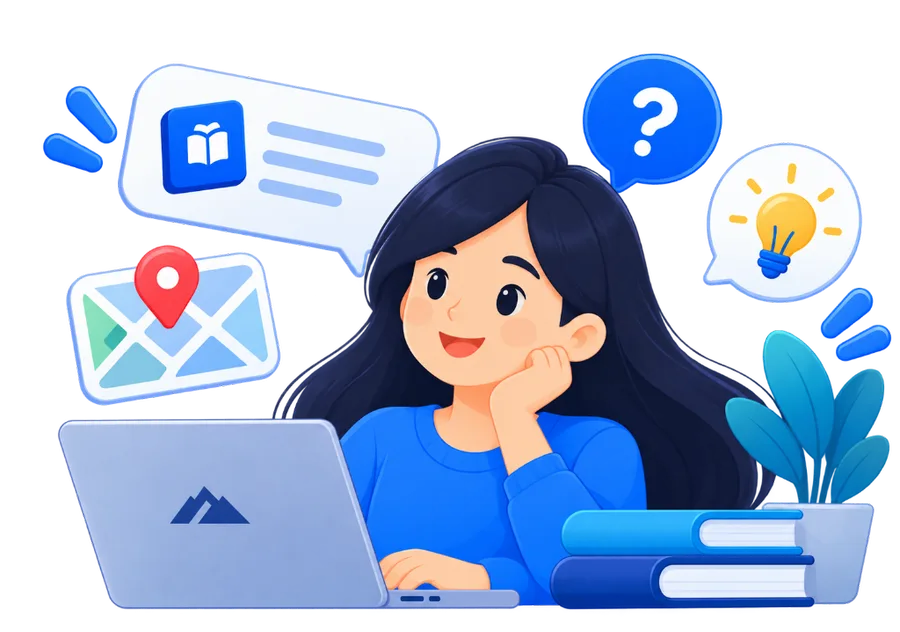
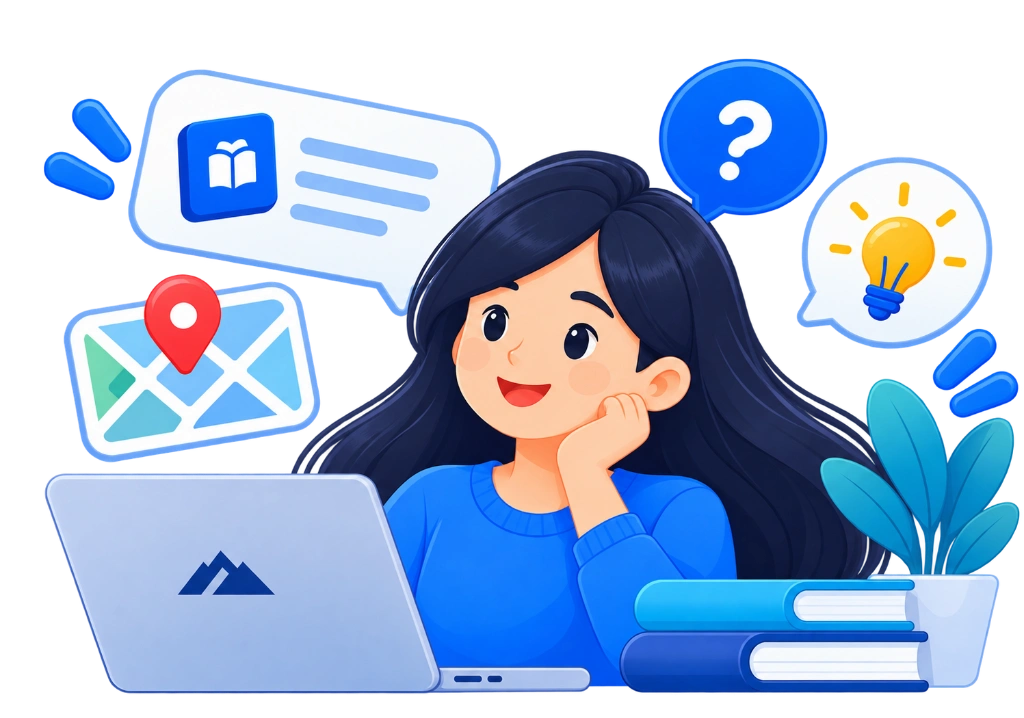
feat(guide): update hero illustration with transparent background

diff --git a/resources/views/pages/guide.blade.php b/resources/views/pages/guide.blade.php
@@ -54,8 +54,8 @@
                             src="{{ asset('images/illustrations/guide-hero.webp') }}"
                             alt="Ilustrasi Panduan Masyarakat TAMBORA"
                             class="h-auto w-full object-contain drop-shadow-lg transition-transform duration-500 hover:scale-[1.02]"
-                            width="960"
-                            height="720"
+                            width="1024"
+                            height="718"
                             loading="eager"
                         >
                     </div>
